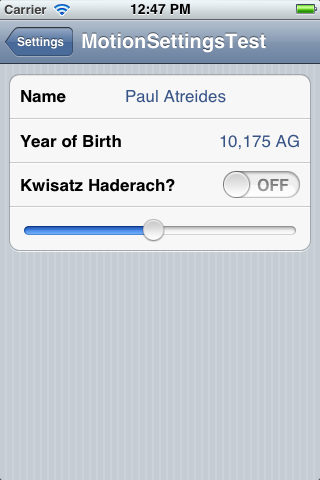
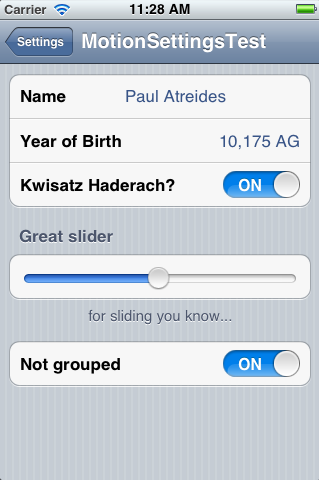
Add support for PSGroupSpecifier

diff --git a/lib/motion-settings-bundle/configuration.rb b/lib/motion-settings-bundle/configuration.rb
@@ -38,6 +38,16 @@ module Motion
       def options(title, options = {})
       end
 
+      def group(title, options = {footer_text: ""}, &block)
+        preference(title, "PSGroupSpecifier", options, {
+          "FooterText" => options[:footer_text]
+        })
+        if block_given?
+          yield
+          group("")
+        end
+      end
+
       private
 
       def preference(title, type, options, extras = {})
